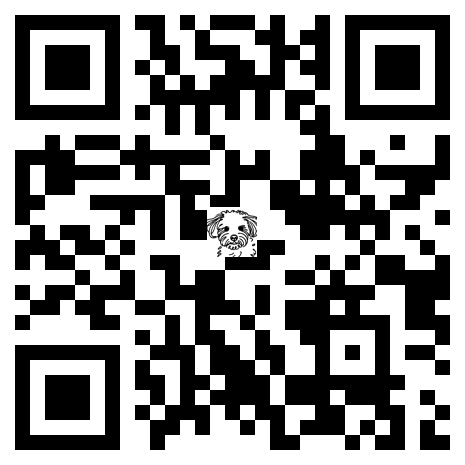
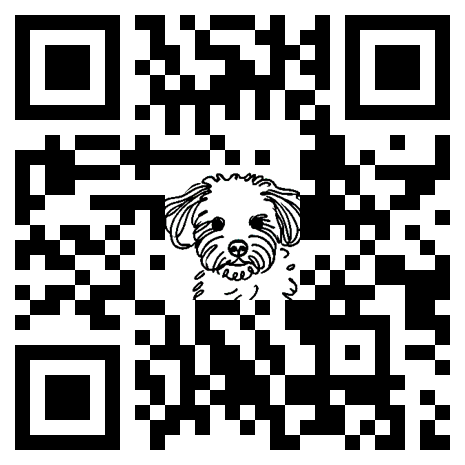
tweak qr code

Changed region(s): [[0.3312, 0.3312, 0.6624, 0.6624]]

diff --git a/generate_qr_code.py b/generate_qr_code.py
@@ -1,50 +1,59 @@
-import qrcode
-from PIL import Image
-from dotenv import load_dotenv
 import os
+
+import qrcode
+from dotenv import load_dotenv
+from PIL import Image
 
 # Load environment variables from the .env file
 load_dotenv()
 
 # Determine whether to use the local IP or public IP
-use_local_ip = os.getenv('USE_LOCAL_IP', 'True') == 'True'
-use_local_ip = False #hard coding b/c lazy
+use_local_ip = os.getenv("USE_LOCAL_IP", "True") == "True"
+use_local_ip = False  # hard coding b/c lazy
 
 # Select the appropriate IP address
 if use_local_ip:
-    ip_address = os.getenv('LOCAL_IP')
+    ip_address = os.getenv("LOCAL_IP")
 else:
-    ip_address = os.getenv('PUBLIC_IP')
+    ip_address = os.getenv("PUBLIC_IP")
 
-def generate_qr_code():
+
+def generate_qr_code(poodle_scale: int = 4, qr_pix_size: int = 15):
     """Generate a QR code with the IP address and overlay a poodle image."""
     # Create the URL with the IP address
     url = f"http://{ip_address}:8080/"
+
+    poodle_scale = int(poodle_scale)
+    qr_pix_size = int(qr_pix_size)
 
     # Generate the QR code
     qr = qrcode.QRCode(
         version=1,
         error_correction=qrcode.constants.ERROR_CORRECT_H,
-        box_size=15,
+        box_size=qr_pix_size,
         border=1,
     )
     qr.add_data(url)
     qr.make(fit=True)
 
-    img_qr = qr.make_image(fill='black', back_color='white').convert('RGB')
+    img_qr = qr.make_image(fill="black", back_color="white").convert("RGB")
 
     # Open the poodle image and resize it
     poodle = Image.open("poodle.png")
-    poodle = poodle.resize((50, 50))
+    poodle = poodle.resize(((2 * poodle_scale + 1) * qr_pix_size,) * 2)
 
-    pos = ((img_qr.size[0] - poodle.size[0]) // 2, (img_qr.size[1] - poodle.size[1]) // 2)
+    pos = (
+        (img_qr.size[0] - poodle.size[0]) // 2,
+        (img_qr.size[1] - poodle.size[1]) // 2,
+    )
     img_qr.paste(poodle, pos, mask=poodle)
 
     # Save the final QR code image
     filename = "qr_code.png"
     img_qr.save(filename)
-    
+
     print(f"QR code generated and saved as {filename} with URL: {url}")
+
 
 if __name__ == "__main__":
     generate_qr_code()
